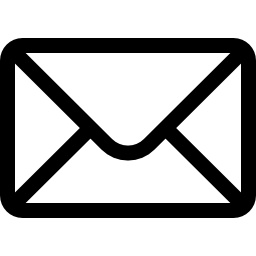
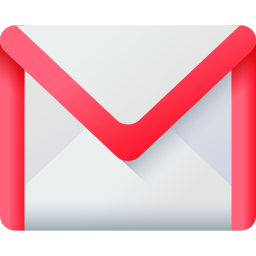
Completed layout and styling now just need to work on responsiveness

diff --git a/src/my-projects/MyProject.jsx b/src/my-projects/MyProject.jsx
@@ -9,14 +9,18 @@ import LinkIcon from '../assets/link.png';
 export const MyProjects = () => {
   return (
     <>
-      <h2>My Projects</h2>
+      <h2 className="projects-header-text">My Projects</h2>
       <div className="projects-wrapper">
         <div className="project-card">
           <img src={ConcertTrack} alt="concertTrack" />
           <div className="project-card-content-wrapper">
             <div className="project-card-text-wrapper">
               <h3>concertTrack</h3>
-              <p>Lorem ipsum dolor sit amet consectetur adipisicing elit. </p>
+              <p>
+                ConcertTrack was built using React.js and vanilla CSS and is an
+                app that helps users track upcoming concerts and stay connected
+                with fellow music lovers.{' '}
+              </p>
             </div>
 
             <div className="project-card-icons">
@@ -39,7 +43,11 @@ export const MyProjects = () => {
           <div className="project-card-content-wrapper">
             <div className="project-card-text-wrapper">
               <h3>Cv-Builder</h3>
-              <p>Lorem ipsum dolor sit amet consectetur adipisicing elit. </p>
+              <p>
+                Built with React.js, this front-end project allows users to
+                easily create a custom resume by entering their information into
+                form inputs.
+              </p>
             </div>
 
             <div className="project-card-icons">
@@ -70,7 +78,11 @@ export const MyProjects = () => {
           <div className="project-card-content-wrapper">
             <div className="project-card-text-wrapper">
               <h3>BattleShip</h3>
-              <p>Lorem ipsum dolor sit amet consectetur adipisicing elit. </p>
+              <p>
+                A Battleship game built with vanilla JavaScript and CSS, bundled
+                with Webpack. Developed using Test-Driven Development (TDD) and
+                tested with Jest.
+              </p>
             </div>
 
             <div className="project-card-icons">
@@ -101,7 +113,13 @@ export const MyProjects = () => {
           <div className="project-card-content-wrapper">
             <div className="project-card-text-wrapper">
               <h3>Weather App</h3>
-              <p>Lorem ipsum dolor sit amet consectetur adipisicing elit. </p>
+              <p>
+                This weather app allows users to check real-time weather
+                forecasts for any location by fetching data from the WeatherAPI.
+                Built using vanilla JavaScript and CSS, the app features a
+                simple, intuitive interface that displays current weather
+                conditions.
+              </p>
             </div>
 
             <div className="project-card-icons">

diff --git a/src/contact/Contact.jsx b/src/contact/Contact.jsx
@@ -1,44 +1,47 @@
 import './Contact.css';
 import LinkedInIcon from '../assets/linkedin.png';
 import EmailIcon from '../assets/mail.png';
-import GithubIcon from '../assets/github.png';
+import GithubIcon from '../assets/github-white.png';
 
 export const Contact = () => {
   return (
     <div className="contact-wrapper">
       <div>
-        <h2>Contact Me</h2>
+        <h2 className="contact-header-text">Contact Me</h2>
         <p>
           If you have any questions or would like to collobarate you can get in
           contact with me at any of the contacts below
         </p>
 
-        <div className="linkedin-wrapper">
-          <a
-            href="https://www.linkedin.com/in/kevin-nguyen23/"
-            target="_blank"
-            rel="noopener noreferrer"
-          >
-            <img src={LinkedInIcon} alt="linked-in-icon" />
-          </a>
-          <p>{"Let's Connect"}</p>
-        </div>
+        <div className="icons-wrapper">
+          <div className="linkedin-wrapper">
+            <a
+              href="https://www.linkedin.com/in/kevin-nguyen23/"
+              target="_blank"
+              rel="noopener noreferrer"
+            >
+              <img
+                className="linked-icon"
+                src={LinkedInIcon}
+                alt="linked-in-icon"
+              />
+            </a>
+          </div>
 
-        <div className="github-wrapper">
-          <a
-            href="https://github.com/kevinnguyen2321"
-            target="_blank"
-            rel="noopener noreferrer"
-          >
-            <img className="github-icon" src={GithubIcon} alt="github-icon" />
-          </a>
-        </div>
+          <div className="github-wrapper">
+            <a
+              href="https://github.com/kevinnguyen2321"
+              target="_blank"
+              rel="noopener noreferrer"
+            >
+              <img className="github-icon" src={GithubIcon} alt="github-icon" />
+            </a>
+          </div>
 
-        <div className="email-wrapper">
-          <p>
+          <div className="email-wrapper">
             <img className="email-icon" src={EmailIcon} alt="Email-icon" />
-            :Kevin.nguyen9703@gmail.com
-          </p>
+            <p className='email-text'>Kevin.nguyen9703@gmail.com</p>
+          </div>
         </div>
       </div>
     </div>

diff --git a/src/about-me/AboutMe.jsx b/src/about-me/AboutMe.jsx
@@ -6,16 +6,23 @@ export const AboutMe = () => {
     <div className="about-me-wrapper">
       <div className="about-me-content-wrapper">
         <div className="image-wrapper">
-          <img src={Kevin} alt="Kevin" />
+          <img src={Kevin} alt="Kevin"></img>
+          <div className="name-overlay">Kevin Nguyen</div>
         </div>
 
         <div className="about-me-text-wrapper">
           <h2>About me</h2>
           <p>
-            Lorem ipsum, dolor sit amet consectetur adipisicing elit. Molestiae,
-            ab, doloremque atque ad repudiandae hic veritatis voluptatem
-            provident excepturi rem quos aperiam praesentium minus omnis
-            eligendi non ipsum, laboriosam deleniti.
+            I’ve always had a love for technology and the process of learning,
+            which ultimately led me to web development. With a background in
+            psychology, including Applied Behavioral Analysis (ABA) therapy,
+            psychiatric hospital work, and case management, I’ve developed
+            strong analytical and problem-solving skills.I began self-learning web
+            development in 2023 and quickly fell in love with the entire process of
+            building and creating through code. I thrive on collaborating with
+            teams to turn ideas into reality and bring a unique perspective by
+            blending my passion for technology with my experience in
+            understanding human behavior.
           </p>
         </div>
       </div>

diff --git a/src/skills/Skills.jsx b/src/skills/Skills.jsx
@@ -8,6 +8,9 @@ import {
 } from 'react-icons/fa';
 import { SiJest, SiWebpack } from 'react-icons/si';
 import CsharpIcon from '../assets/csharp.png';
+import DotNetCoreIcon from '../assets/.net.png';
+import PostgresSqlIcon from '../assets/postgres.png';
+
 import './Skills.css'; // Add your styles here
 
 export const Skills = () => {
@@ -20,10 +23,28 @@ export const Skills = () => {
       id: 5,
       name: 'C#',
       icon: <img src={CsharpIcon} alt="C# Logo" style={{ width: '50px' }} />,
-    }, // Changed from SiCsharp to FaCode
-    { id: 6, name: 'Jest', icon: <SiJest color="#C21325" /> },
-    { id: 7, name: 'Webpack', icon: <SiWebpack color="#8DD6F9" /> },
-    { id: 8, name: 'Git', icon: <FaGitAlt color="#F05033" /> },
+    },
+    {
+      id: 6,
+      name: '.Net',
+      icon: (
+        <img src={DotNetCoreIcon} alt=".Net Logo" style={{ width: '50px' }} />
+      ),
+    },
+    {
+      id: 7,
+      name: 'PostgreSQL',
+      icon: (
+        <img
+          src={PostgresSqlIcon}
+          alt="PostgreSQL Logo"
+          style={{ width: '50px' }}
+        />
+      ),
+    }, // Changed from SiCsharp to FaCode // Changed from SiCsharp to FaCode // Changed from SiCsharp to FaCode
+    { id: 8, name: 'Jest', icon: <SiJest color="#C21325" /> },
+    { id: 9, name: 'Webpack', icon: <SiWebpack color="#8DD6F9" /> },
+    { id: 10, name: 'Git', icon: <FaGitAlt color="#F05033" /> },
   ];
 
   return (

diff --git a/src/my-projects/MyProject.css b/src/my-projects/MyProject.css
@@ -2,32 +2,46 @@
   display: flex;
   flex-wrap: wrap;
   gap: 35px;
-} 
+  margin-bottom: 150px;
+}
 
- .project-card {
-  border: solid black;
+.projects-header-text {
+  text-align: center;
+  margin-bottom: 30px;
+}
+
+.project-card {
+  box-shadow: rgba(0, 0, 0, 0.35) 0px 5px 15px;
+  box-sizing: border-box;
+  border-radius: 15px;
   width: 30%;
+  margin-left: 20px;
+  padding: 10px;
+  transition: transform 0.2s ease-in-out;
+}
+
+.project-card:hover {
+  cursor: pointer;
+  transform: translateY(-12px);
 }
 
 .project-card img {
   width: 100%;
+  border-radius: 15px;
 }
 
 .project-card-content-wrapper {
-  border: solid blue;
   display: flex;
 }
 
 .project-card-text-wrapper {
-  border: solid yellow;
+  width: 85%;
 }
 
 .project-card-icons {
-  border: solid pink;
-}
-
-.github-img {
-  border: solid black;
+  margin-top: 20px;
+  margin-left: 15px;
+  width: 50%;
 }
 
 .link-img {
@@ -36,4 +50,4 @@
 
 .project-card-icons img {
   width: 9%;
-} 
+}

diff --git a/src/contact/Contact.css b/src/contact/Contact.css
@@ -1,22 +1,52 @@
 .contact-wrapper {
-  background-color: white;
+  background-color: black;
   border: solid black;
-  color: black;
+  color: whitesmoke;
+  text-align: center;
 }
 
 .contact-wrapper img {
   width: 20%;
 }
 
-.linkedin-wrapper {
-  border: solid black;
+.icons-wrapper {
   display: flex;
+  justify-content: center;
+}
+
+.contact-header-text {
+  text-align: center;
+}
+
+.email-wrapper {
+  display: flex;
+  gap: 5px;
+}
+
+.email-text {
+  /* border: solid white; */
+  margin-top: 40px;
 }
 
 .email-icon {
-  width: 3% !important;
+  width: 22% !important;
+}
+
+.github-icon,
+.linked-icon {
+  transition: transform 0.2s ease-in-out;
 }
 
 .github-icon {
-  width: 3% !important;
+  width: 40% !important;
+}
+
+.github-icon:hover,
+.linked-icon:hover {
+  cursor: pointer;
+  transform: scale(1.1);
+}
+.linked-icon {
+  width: 40% !important;
+  margin-bottom: 5px;
 }

diff --git a/src/about-me/AboutMe.css b/src/about-me/AboutMe.css
@@ -1,17 +1,15 @@
 .about-me-wrapper {
-  border-bottom: 1px solid black;
   display: flex;
-  margin-bottom: 100px;
 }
 
 .about-me-content-wrapper {
-  /* border: solid yellow; */
   display: flex;
 }
 
 .image-wrapper {
-  margin-top: 42px;
+  margin-top: 70px;
   margin-left: 120px;
+  position: relative;
 }
 
 .about-me-content-wrapper img {
@@ -19,6 +17,16 @@
   height: 300px;
   margin-top: 40px;
   border-radius: 15px;
+}
+
+.name-overlay {
+  position: absolute;
+  bottom: 140px; /* Adjust where you want the text to appear */
+  left: 122px;
+  color: white; /* White text color for contrast */
+  font-size: 2rem;
+  font-weight: bold;
+  text-shadow: 2px 2px 4px rgba(0, 0, 0, 0.5); /* Optional: adds a shadow to the text for better visibility */
 }
 
 .about-me-text-wrapper {

diff --git a/src/skills/Skills.css b/src/skills/Skills.css
@@ -15,11 +15,12 @@
   display: flex;
   flex-direction: column;
   align-items: center;
-  background: #f4f4f4;
+  background: #f4f4f4ce;
   border-radius: 8px;
   padding: 1rem;
   box-shadow: 0 4px 6px rgba(0, 0, 0, 0.1);
   transition: transform 0.2s;
+  width: 70%;
 }
 
 .skill-card:hover {

diff --git a/src/App.css b/src/App.css
@@ -1,10 +1,3 @@
-/* Global Body Styling */
-/* body {
-  margin: 0;
-  font-family: Arial, sans-serif;
-  background: white;
-} */
-
 body {
   margin: 0;
   padding: 0;
